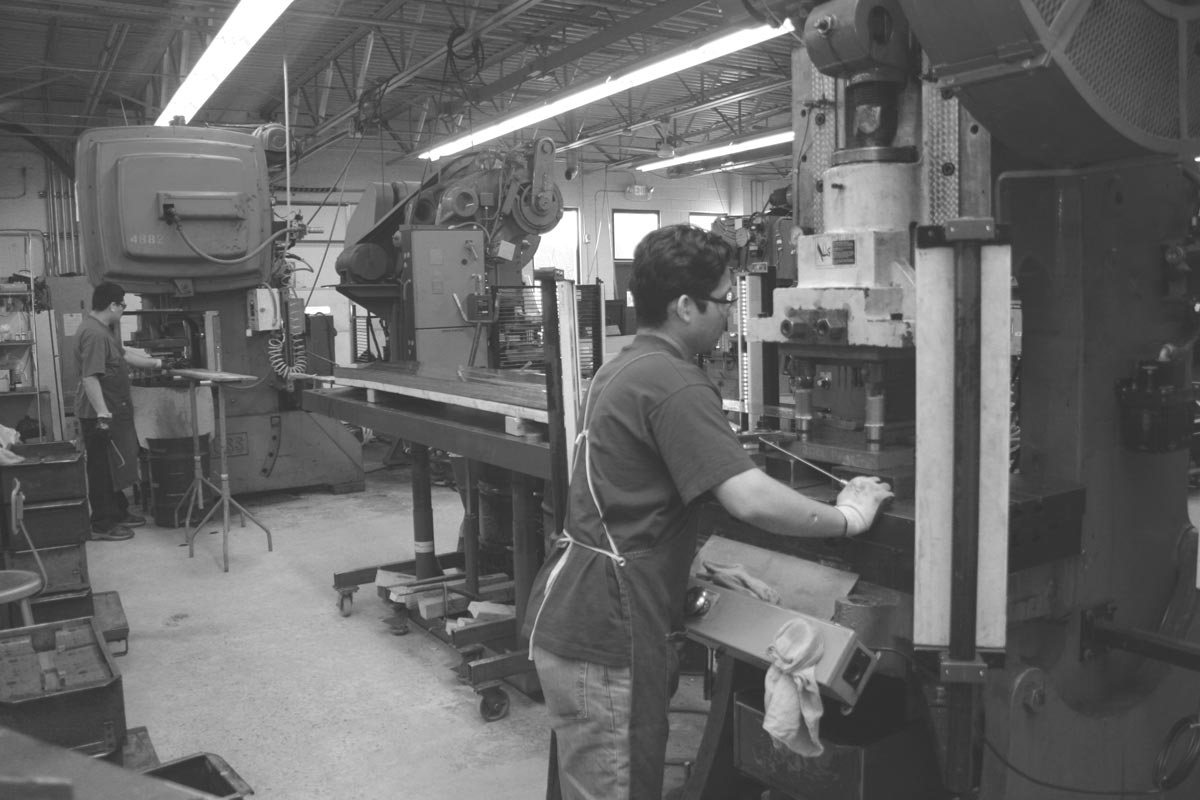
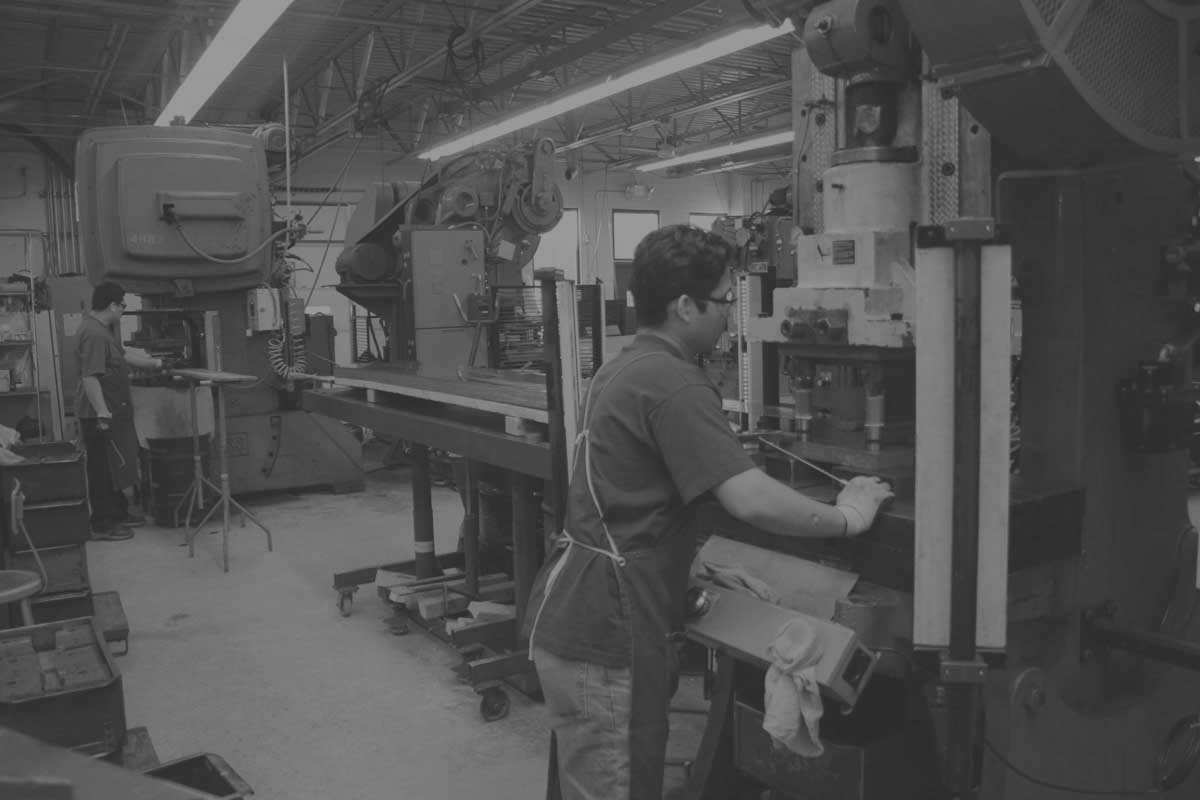
Tweaked footer border and background image

diff --git a/sites/all/themes/alhx/js/application.js b/sites/all/themes/alhx/js/application.js
@@ -13,7 +13,7 @@ $(document).ready(function() {
         var currPosition = $(window).scrollTop();
     
         var overClipTop = 0 - currPosition;
-        var overClipBottom = overClipTop + $('.splash').height() - 5;     
+        var overClipBottom = overClipTop + $('.splash').height() - 4;     
         var overRect = 'rect(' +overClipTop + 'px auto ' + overClipBottom + 'px 0px)';
         
         var underClipBottom = currPosition + $(window).height();

diff --git a/sites/all/themes/alhx/css/pages.css b/sites/all/themes/alhx/css/pages.css
@@ -590,11 +590,12 @@ span.field-label { /* The inline field label used by the Fences module */
 
 footer {
   margin-top: 4em;
-  border-top: 6px solid #2c6bc6;
+  border-top: 1px solid #2c6bc6;
+  padding-top: 1px;
 }
 
 footer > div {
-  border-top: 6px solid #bc3f3f;
+  border-top: 1px solid #bc3f3f;
   margin-bottom: 4em;
 }
 
